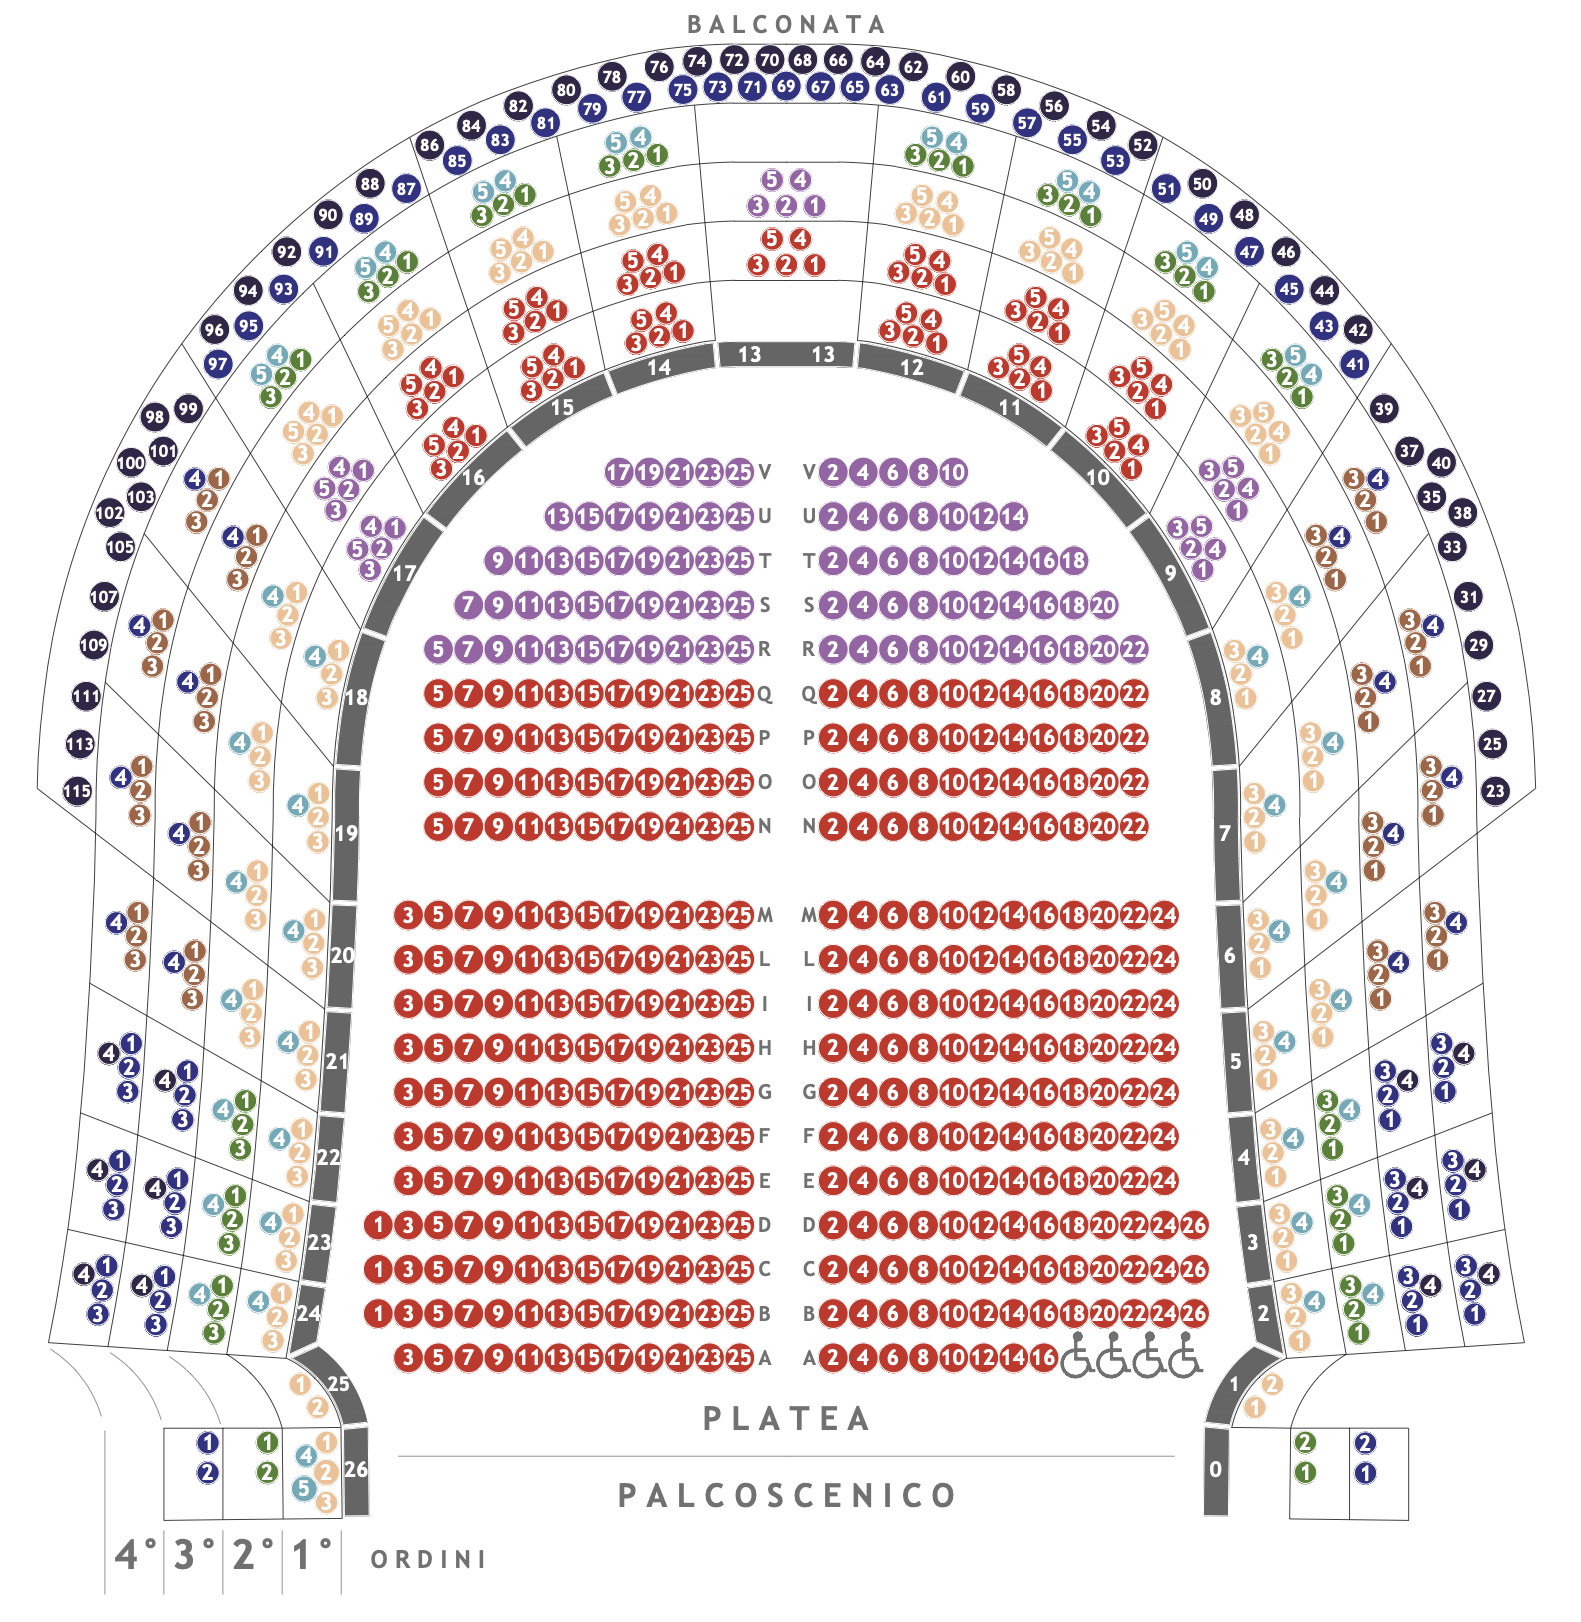
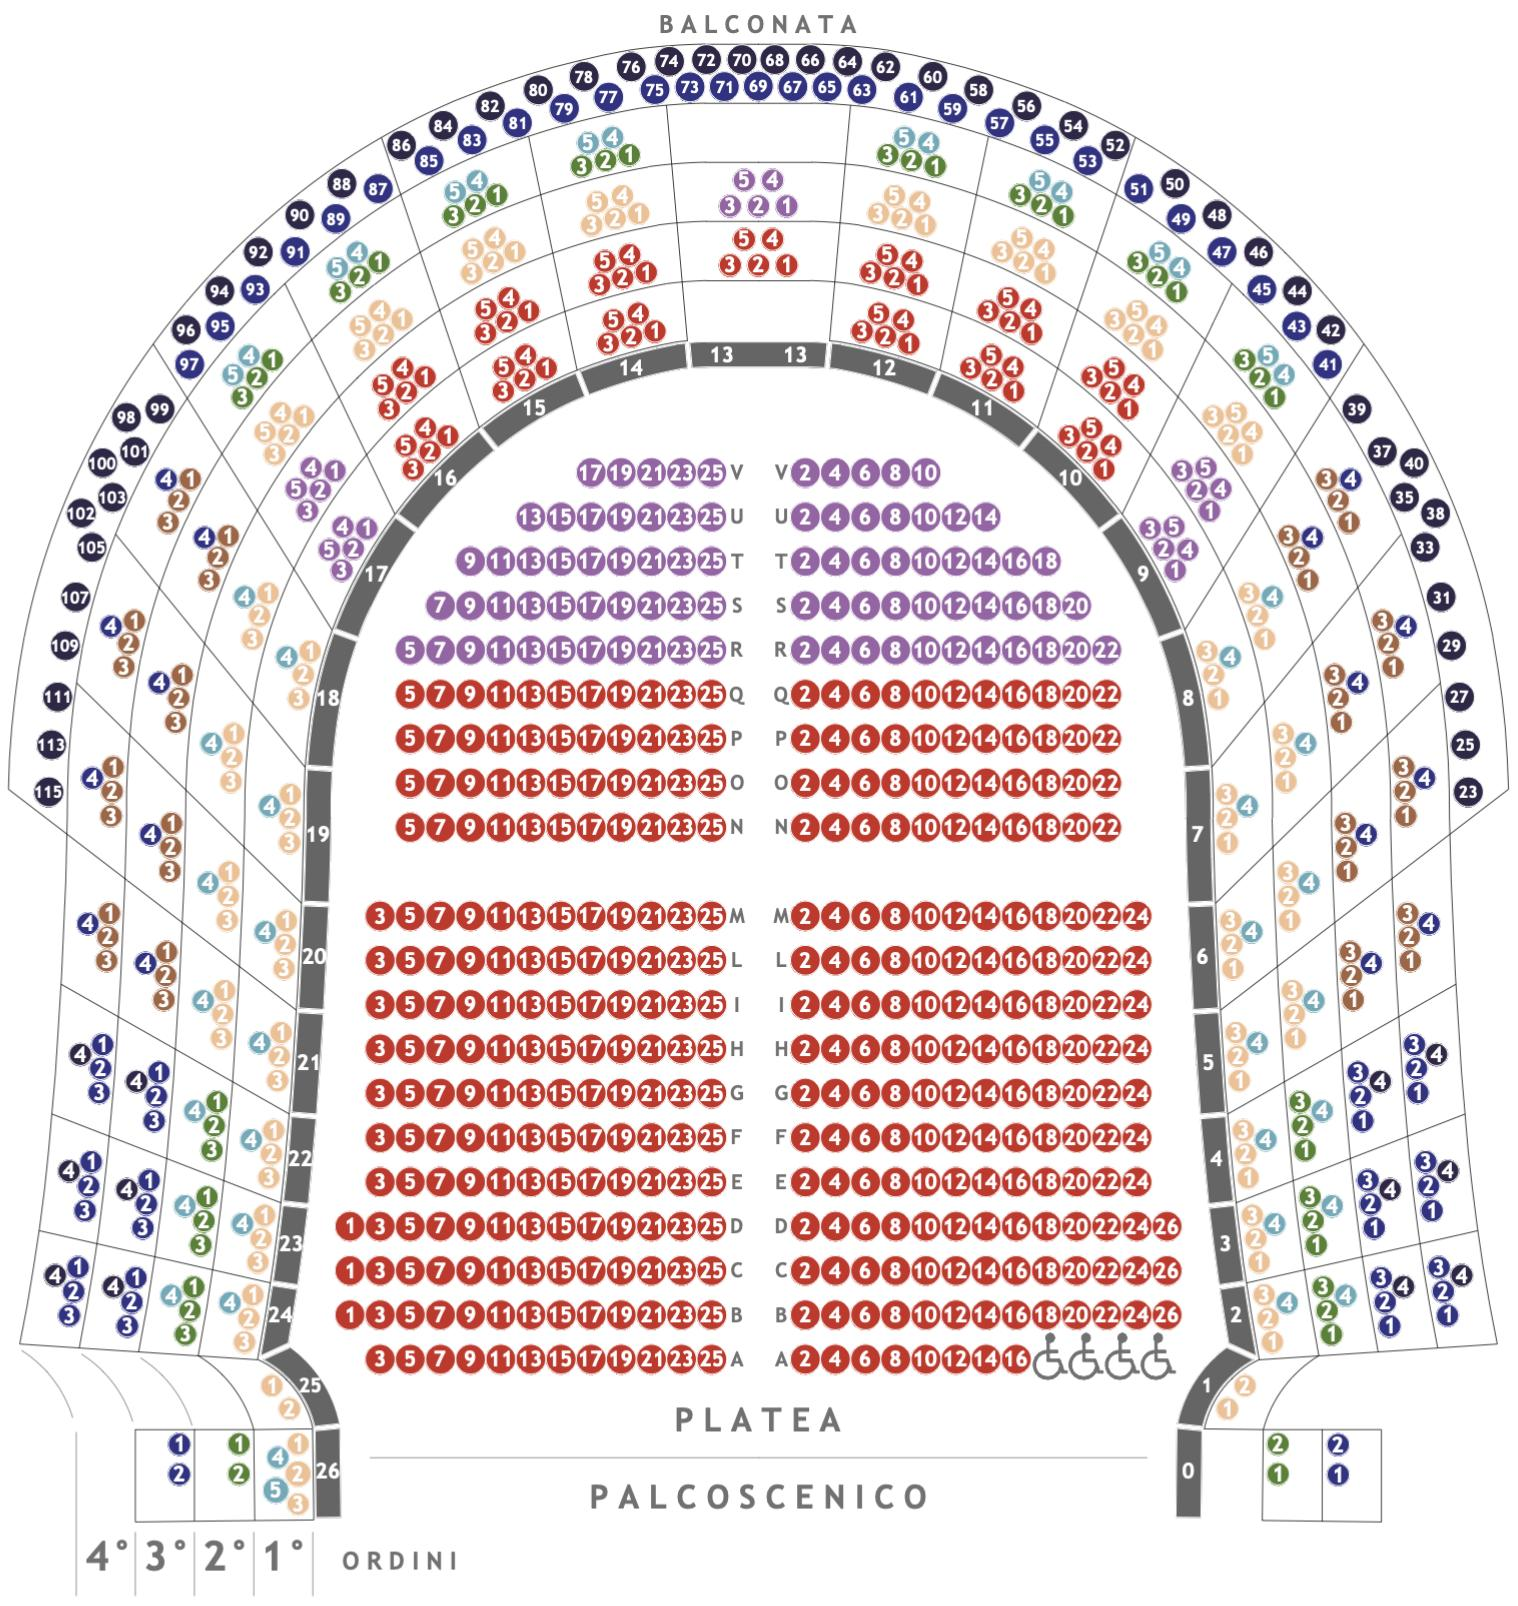
create prezzi

diff --git a/html/prenota.html b/html/prenota.html
@@ -38,8 +38,118 @@
             </div>
         </div>
 
-        <!--CONTENUTO-->
-        
+        <!-- CONTENUTO -->
+        <div class="prenotazione">
+            <div class="posti">
+                <div class="imgPosti">
+                    <img src="../img/piantina_posti.jpg">
+                </div>
+                <div class="elencoPosti">
+                    <p class="textPrezzi">
+                        I nostri prezzi
+                    </p>
+                    <div class="costi">
+                        <div class="costi1">
+                            <!--BALCONI PRIMO PIANO-->
+                            <b>Balcone 1° piano</b><br>
+                            <p>
+                                Balconi: <span class="giallo">1-8 / 18-26</span><br>
+                                Costo:
+                            </p>
+                            <p>
+                                Balconi: <span class="violetto">9 / 17</span><br>
+                                Costo:
+                            </p>
+                            <p>
+                                Balconi: <span class="rosso">10-12 / 14-16</span><br>
+                                Costo:
+                            </p>
+                            <hr>
+                            <!--BALCONI SECONDO PIANO-->
+                            <b>Balcone 2° piano</b><br>
+                            <p>
+                                Balconi: <span class="verde">0-4 / 22-26</span><br>
+                                Costo:
+                            </p>
+                            <p>
+                                Balconi: <span class="giallo">5-8 / 18-21</span><br>
+                                Costo:
+                            </p>
+                            <p>
+                                Balconi: <span class="violetto">9 / 17</span><br>
+                                Costo:
+                            </p>
+                            <p>
+                                Balconi: <span class="rosso">10-16</span><br>
+                                Costo:
+                            </p>
+                        </div>
+                        <div class="costi2">
+                            <!--BALCONI 3° PIANO-->
+                            <b>Balcone 3° piano</b><br>
+                            <p>
+                                Balconi: <span class="blu">0-4 / 22-26</span><br>
+                                Costo:
+                            </p>
+                            <p>
+                                Balconi: <span class="marrone">5-8 / 18-21</span><br>
+                                Costo:
+                            </p>
+                            <p>
+                                Balconi: <span class="giallo">9-17</span><br>
+                                Costo:
+                            </p>
+                            <hr>
+                            <!--BALCONI 4° PIANO-->
+                            <b>Balcone 4° piano</b><br>
+                            <p>
+                                File: <span class="blu">2-4 / 22-24</span><br>
+                                Costo:
+                            </p>
+                            <p>
+                                File: <span class="marrone">5-8 / 18-21</span><br>
+                                Costo:
+                            </p>
+                            <p>
+                                File: <span class="verde">9-17</span><br>
+                                Costo:
+                            </p>
+                        </div>
+                        <div class="costi3">
+                            <!--BALCONI 5° PIANO-->
+                            <b>Balcone 5° piano</b><br>
+                            <p>
+                                File: <span class="blu_scuro">6-8 / 18-20</span><br>
+                                Costo:
+                            </p>
+                            <p>
+                                File: <span class="marrone">9-10 / 16-17</span><br>
+                                Costo:
+                            </p>
+                            <p>
+                                File: <span class="verde">11-15</span><br>
+                                Costo:
+                            </p>
+                            <hr>
+                            <!--PLATEA-->
+                            <b>Platea</b><br>
+                            <p>
+                                File: <span class="rosso">A-Q</span><br>
+                                Costo:
+                            </p>
+                            <p>
+                                File: <span class="violetto">R-V</span><br>
+                                Costo:
+                            </p>
+                            <p>
+                                Posti: <span class="blu">Handicap</span><br>
+                                Costo:
+                            </p>
+                        </div>
+                    </div>
+                </div>
+            </div>
+        </div>
 
         <!--FOOTER-->
         <div class="footer">

diff --git a/css/cssPage.css b/css/cssPage.css
@@ -75,6 +75,126 @@
     text-decoration: underline;
 }
 
+/* CONTENUTO */
+.prenotazione {
+    width: 100%;
+    height: auto;
+    background-color: #F7F3E9;
+    padding-top: 10px;
+}
+
+.prenotazione p {
+    text-align: center;
+    font-size: 30pt;
+}
+
+.posti {
+    display: grid;
+    grid-template-columns: 50% 50%; /* Griglia divisa in due colonne */
+    padding-top: 15px;
+    padding-bottom: 40px;
+    justify-content: center;
+    background-color: #F7F3E9;
+    color: black;
+}
+
+.imgPosti {
+    display: flex;
+    justify-content: center;
+    align-items: center;
+}
+
+.imgPosti img {
+    max-width: 75%;
+    height: auto;
+    border-radius: 50px;
+}
+
+.textPrezzi {
+    font-size: 25pt;
+    margin-bottom: 20px;
+}
+
+.costi {
+    display: grid;
+    grid-template-columns: 33% 34% 33%;
+    justify-content: center;
+    background-color: #F7F3E9;
+    color: black;
+}
+
+.costi1, .costi2, .costi3 {
+    display: flex;
+    flex-direction: column;
+    justify-content:flex-start;
+    align-items: center;
+}
+
+.costi1, .costi2 {
+    border-right: 2px solid black;
+}
+
+.costi b {
+    font-size: 20px;
+    font-family: 'Courier New', Courier, monospace;
+    letter-spacing: 5px;
+    font-style: oblique;
+    margin-bottom: 20px;
+    text-decoration: underline;
+    text-decoration-style: dashed;
+    text-underline-offset: 10px
+}
+
+.costi p {
+    display: block;
+    font-size: 19px;
+    margin-bottom: 30px;
+}
+
+.costi .giallo {
+    color:#DAA520;
+    font-weight: bold;
+}
+
+.costi .blu_scuro {
+    color:#00008B;
+    font-weight: bold;
+}
+
+.costi .verde {
+    color: green;
+    font-weight: bold;
+}
+
+.costi .violetto {
+    color: #9370DB;
+    font-weight: bold;
+}
+
+.costi .rosso {
+    color: #B22222;
+    font-weight: bold;
+}
+
+.costi .blu {
+    color:#1C39BB;
+    font-weight: bold;
+}
+
+.costi .marrone {
+    color:#964B00;
+    font-weight: bold;
+}
+
+hr {
+    width: 90%;
+    height: 2px;
+    background-color: black;
+    border: none;
+    margin-top: -15px;
+    margin-bottom: 20px;
+}
+
 /* FOOTER */
 .footer {
     display: grid;

diff --git a/css/cssHome.css b/css/cssHome.css
@@ -78,11 +78,11 @@
 /* SLIDE + TESTO */
 .slide_text {
     display: grid;
-    grid-template-columns: 1fr 1fr; /* Due colonne di uguale larghezza */
-    gap: 20px;
+    grid-template-columns: 50% 50%;
     padding: 50px;
     align-items: center;
     justify-content: center;
+    flex-wrap: wrap;
     background-color: #F7F3E9;
     color: black;
     text-align: center;
